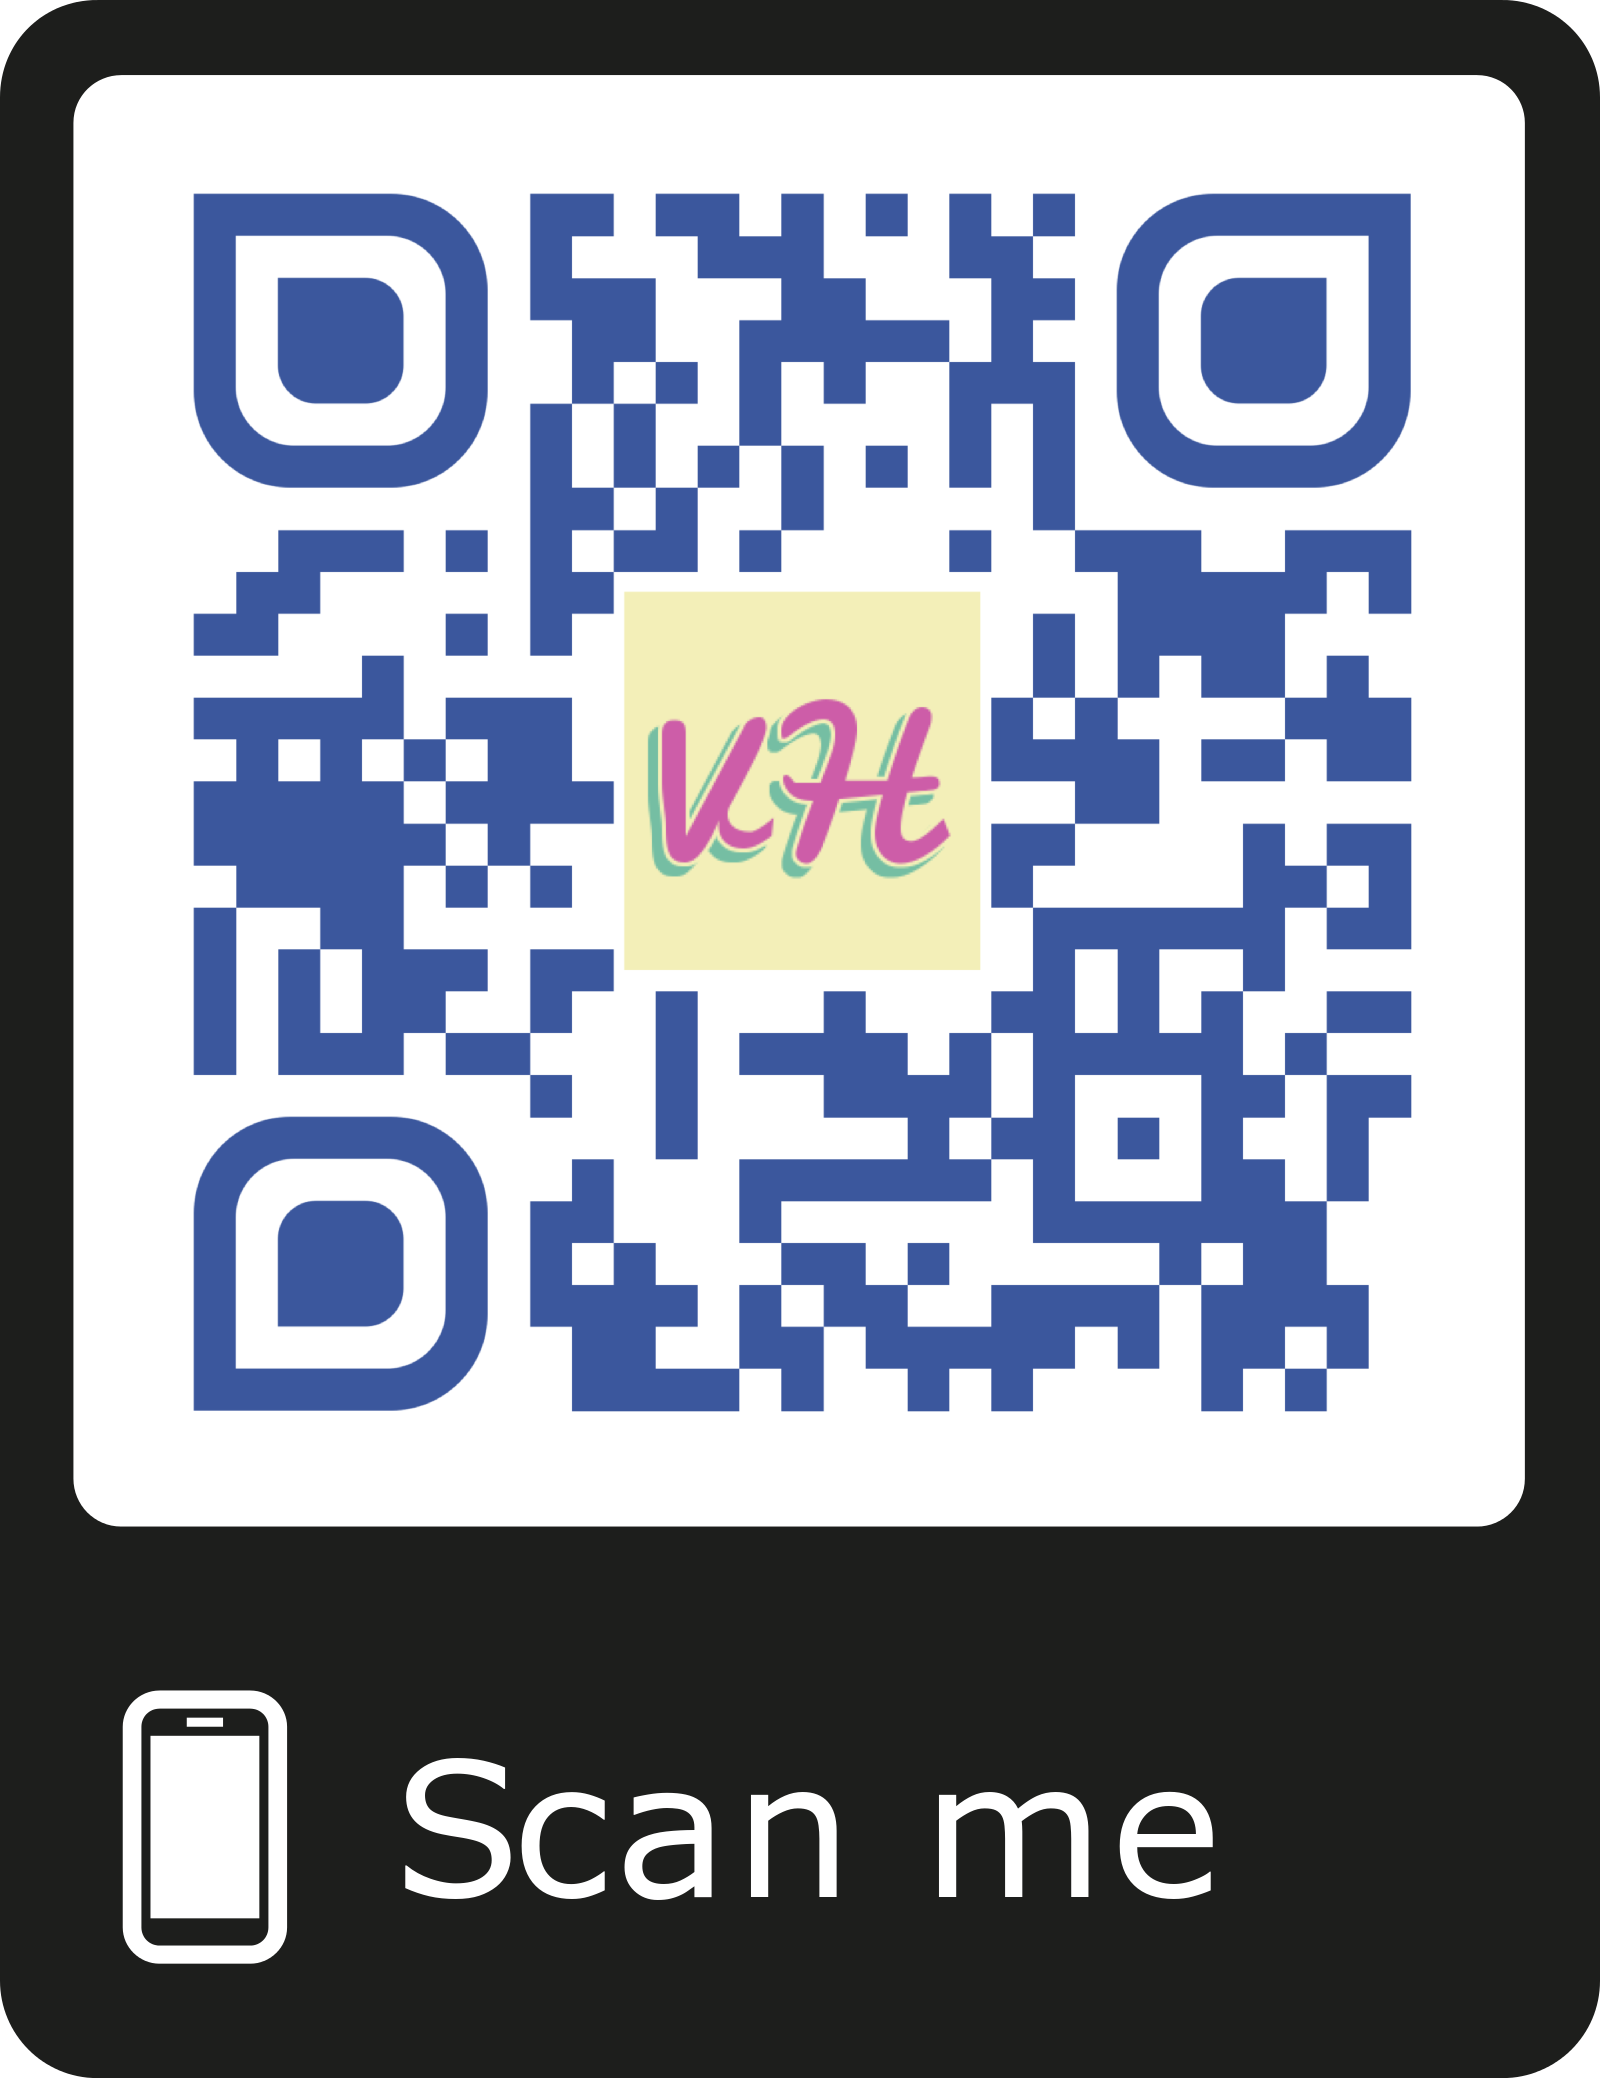
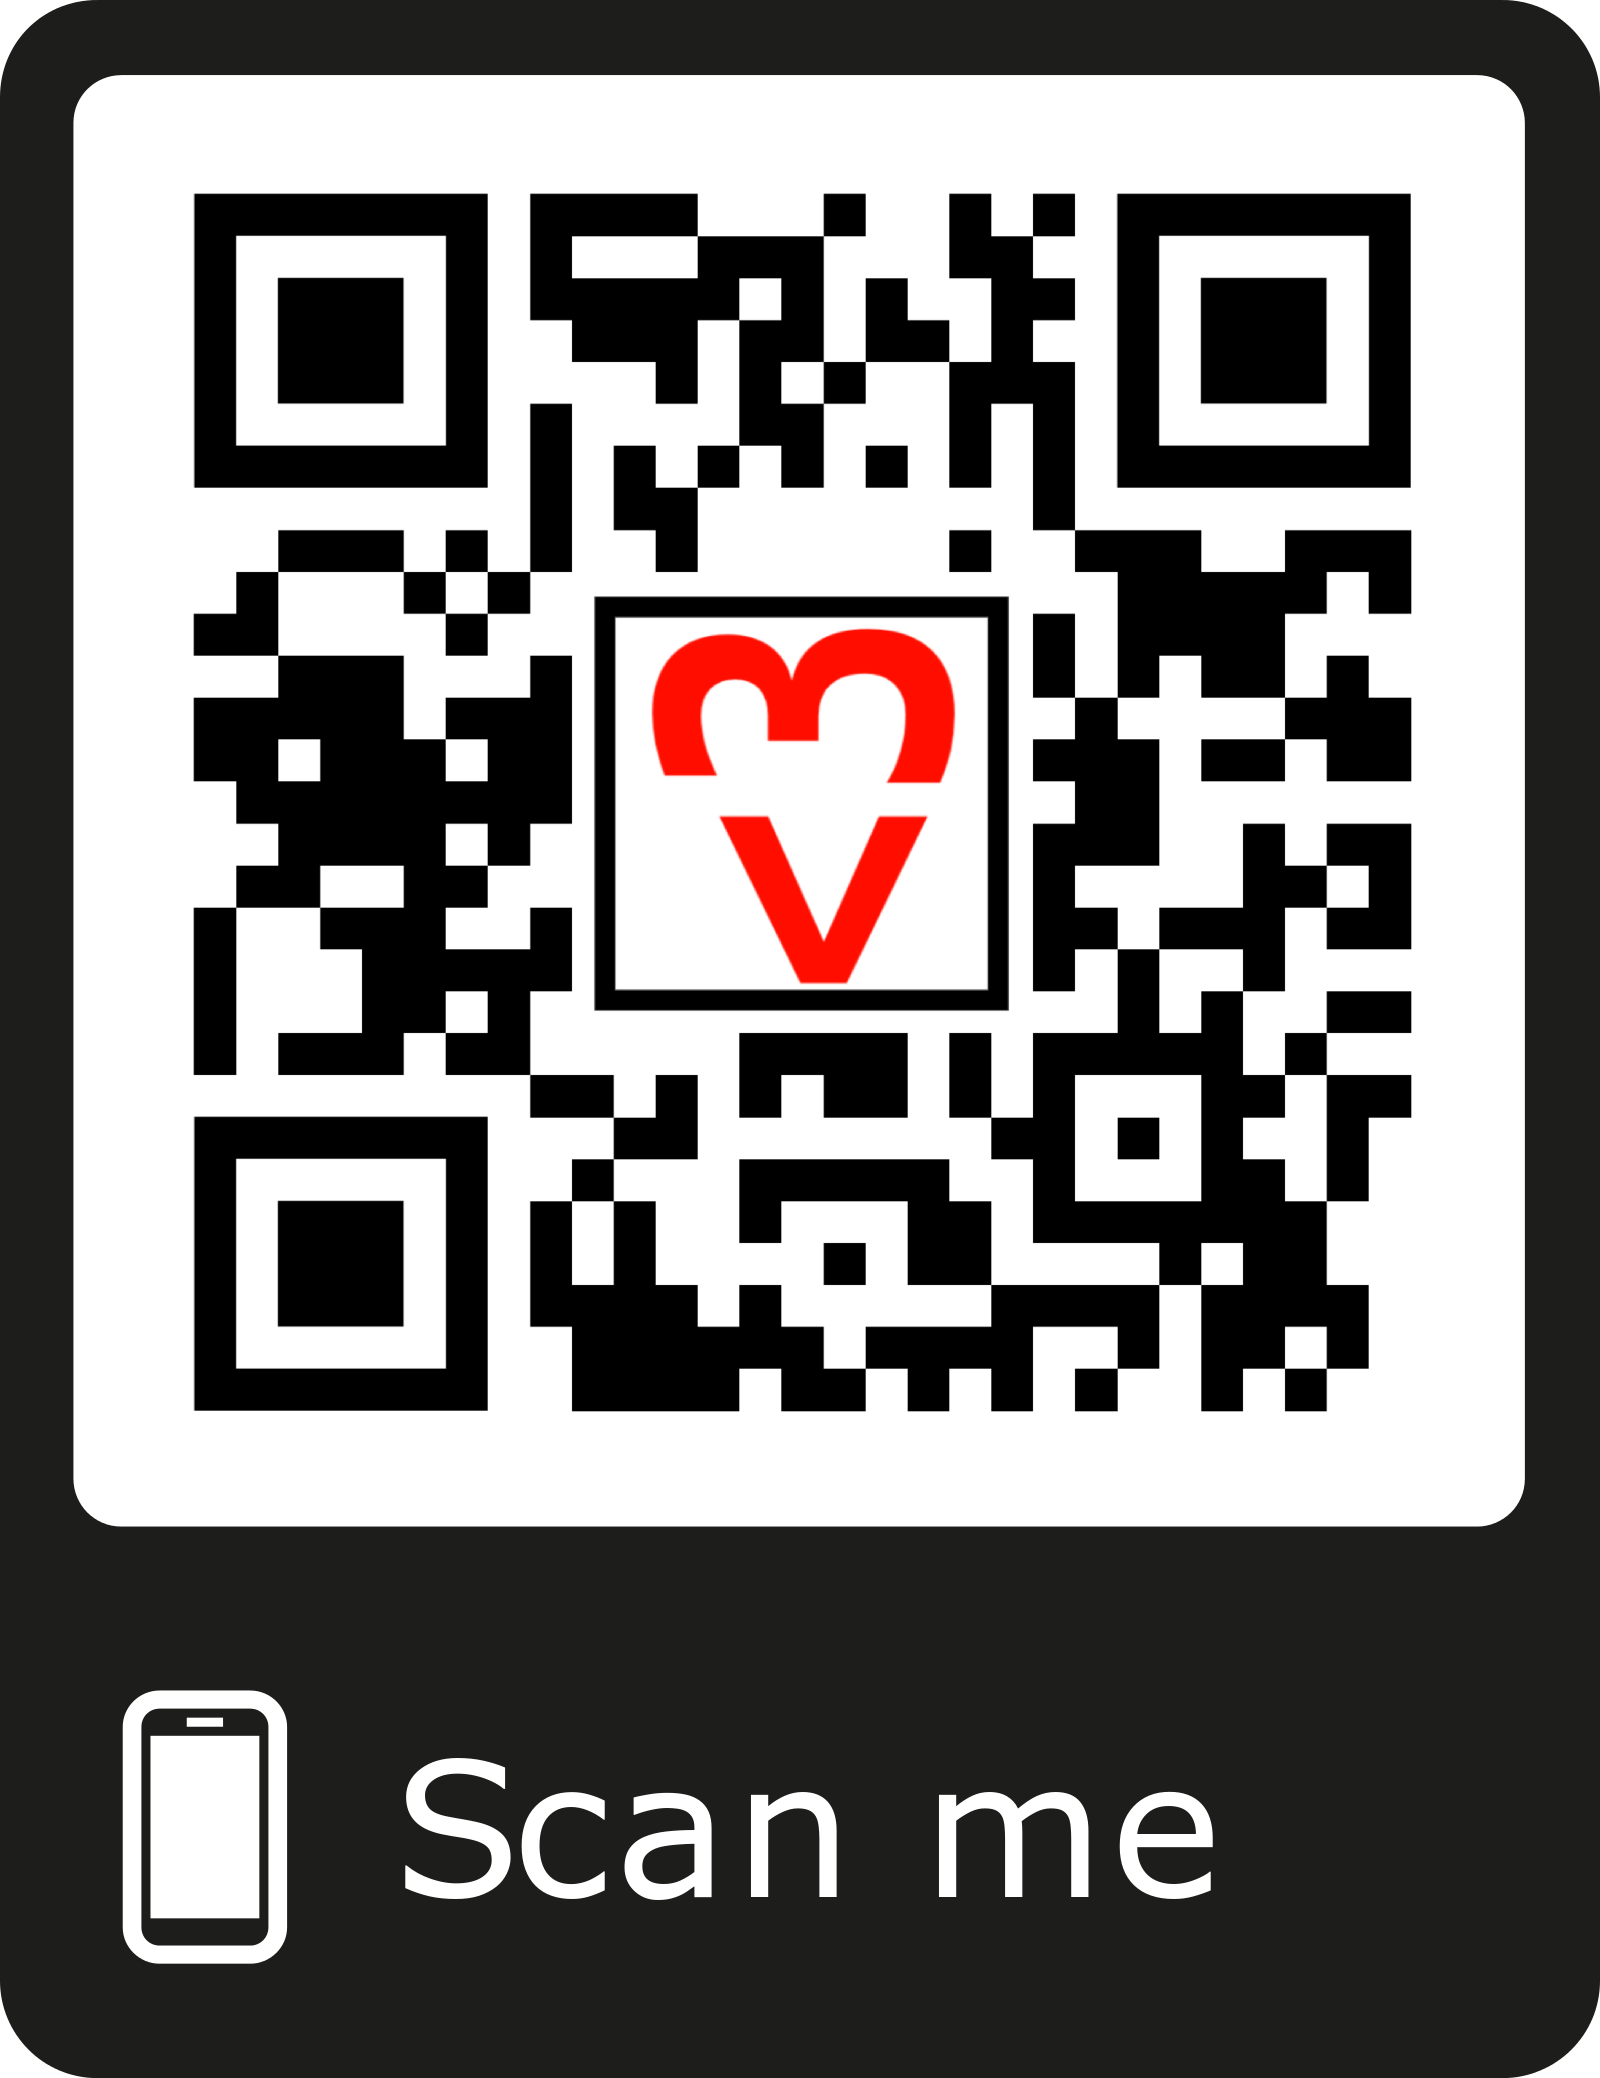
update readme

Changed region(s): [[0.0938, 0.0924, 0.9062, 0.6776]]

diff --git a/README.md b/README.md
@@ -6,11 +6,7 @@
 
 - Go to link: [https://weddingvh.github.io](https://weddingvh.github.io) hoặc QRCode
 
-![QRCode](./media/qrcode2.png)
-
-- Và Soi hình này nhé
-
-![Tim](./images/marker.png)
+![QRCode](./media/qrcode.png)
 
 - Trên `IOS` dùng `Safari`
 - Trên `Android` dùng `Google Chrome`
